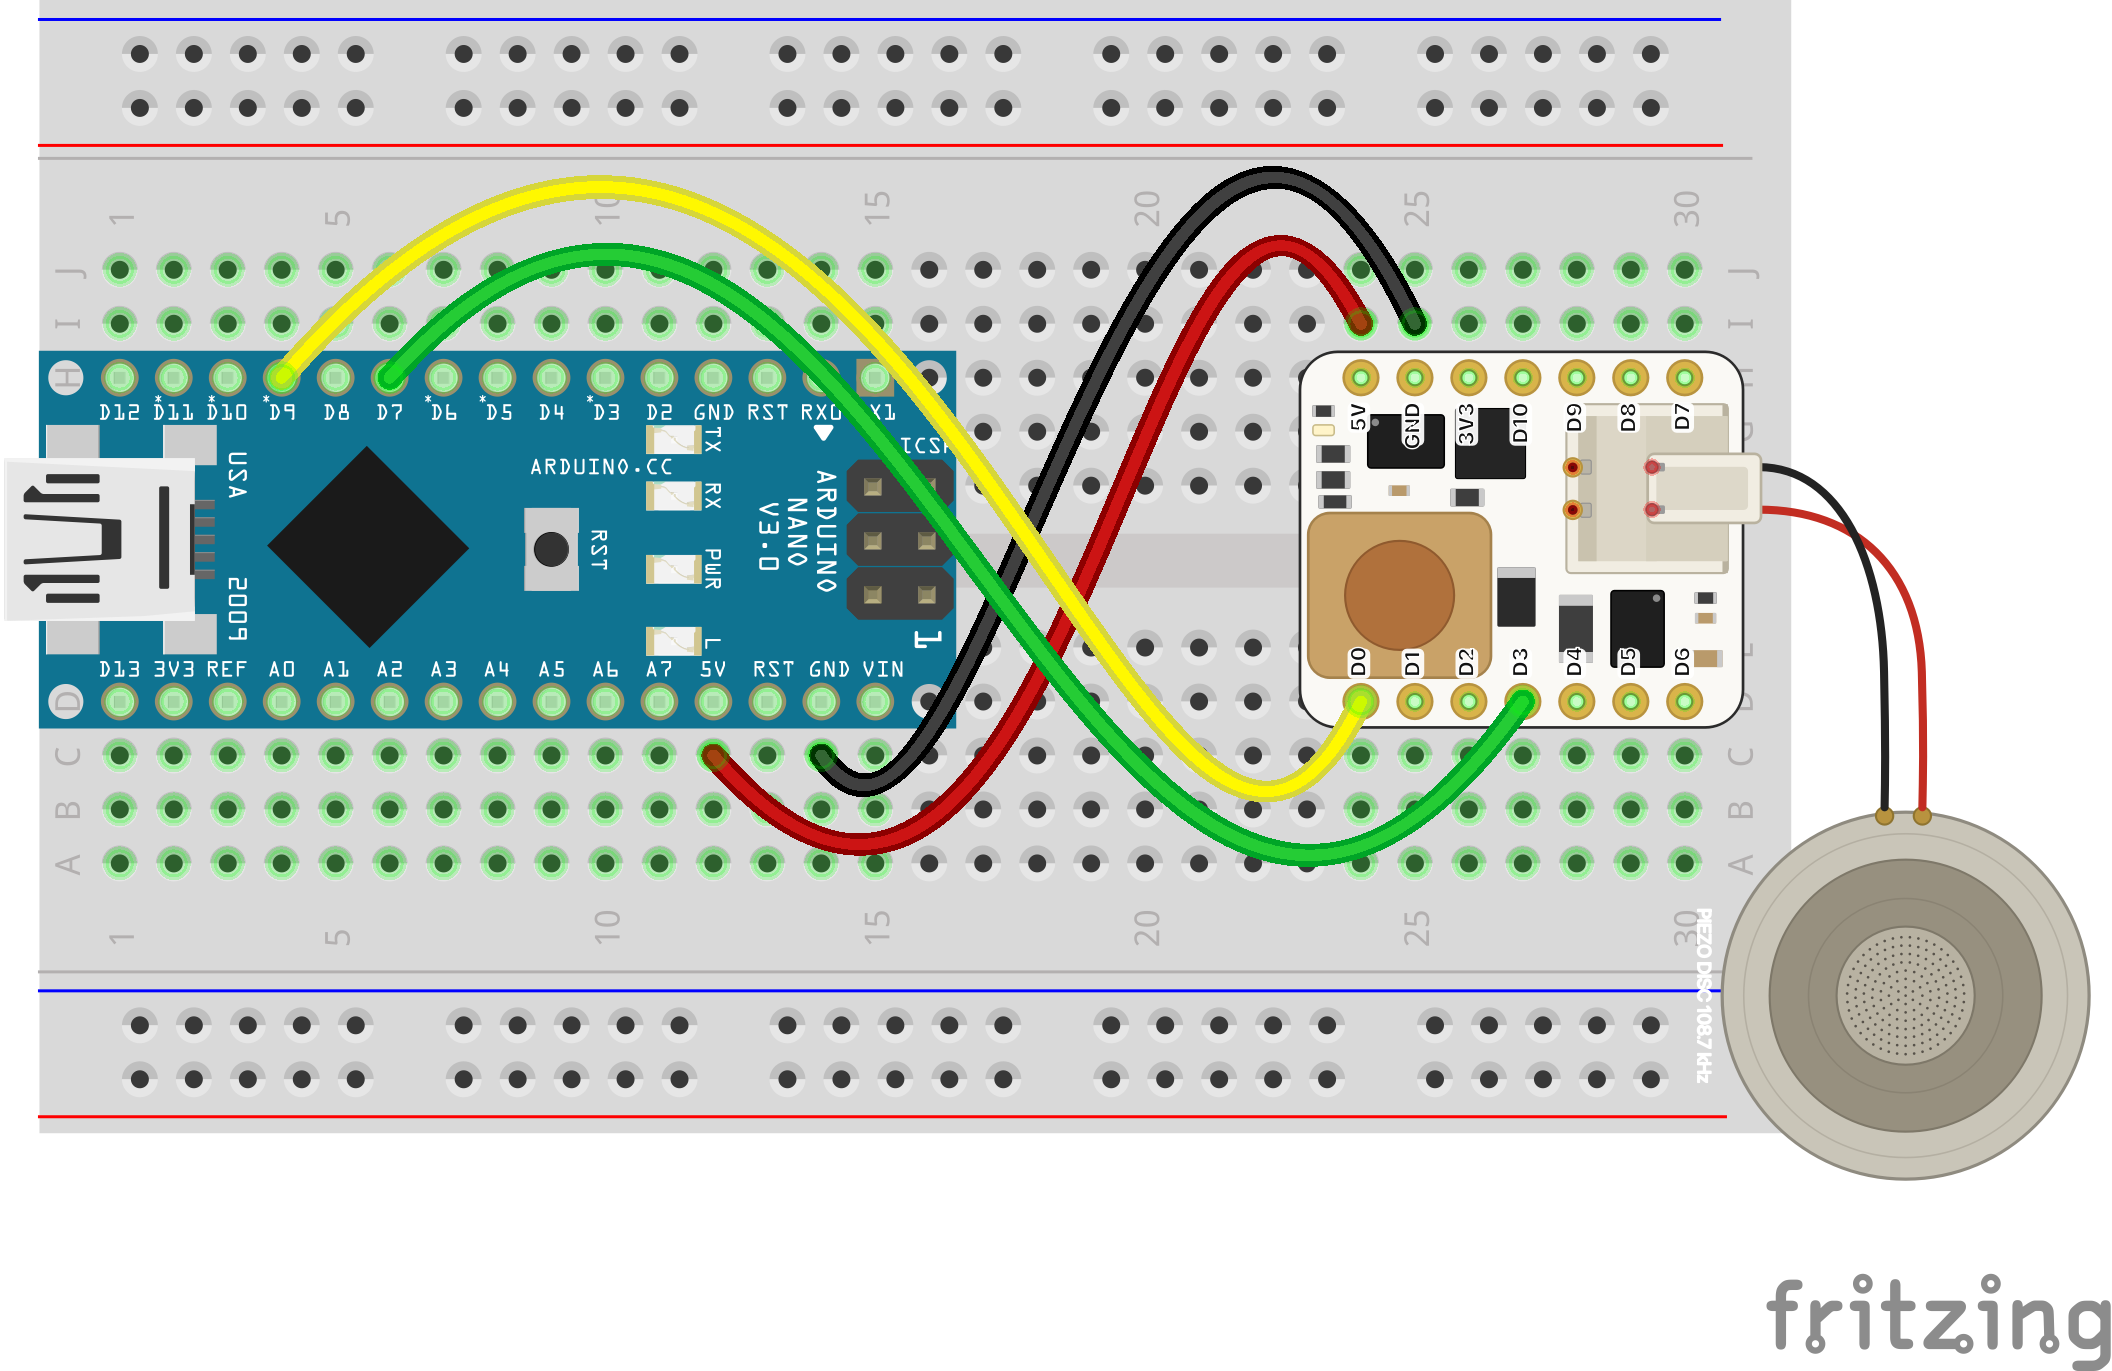
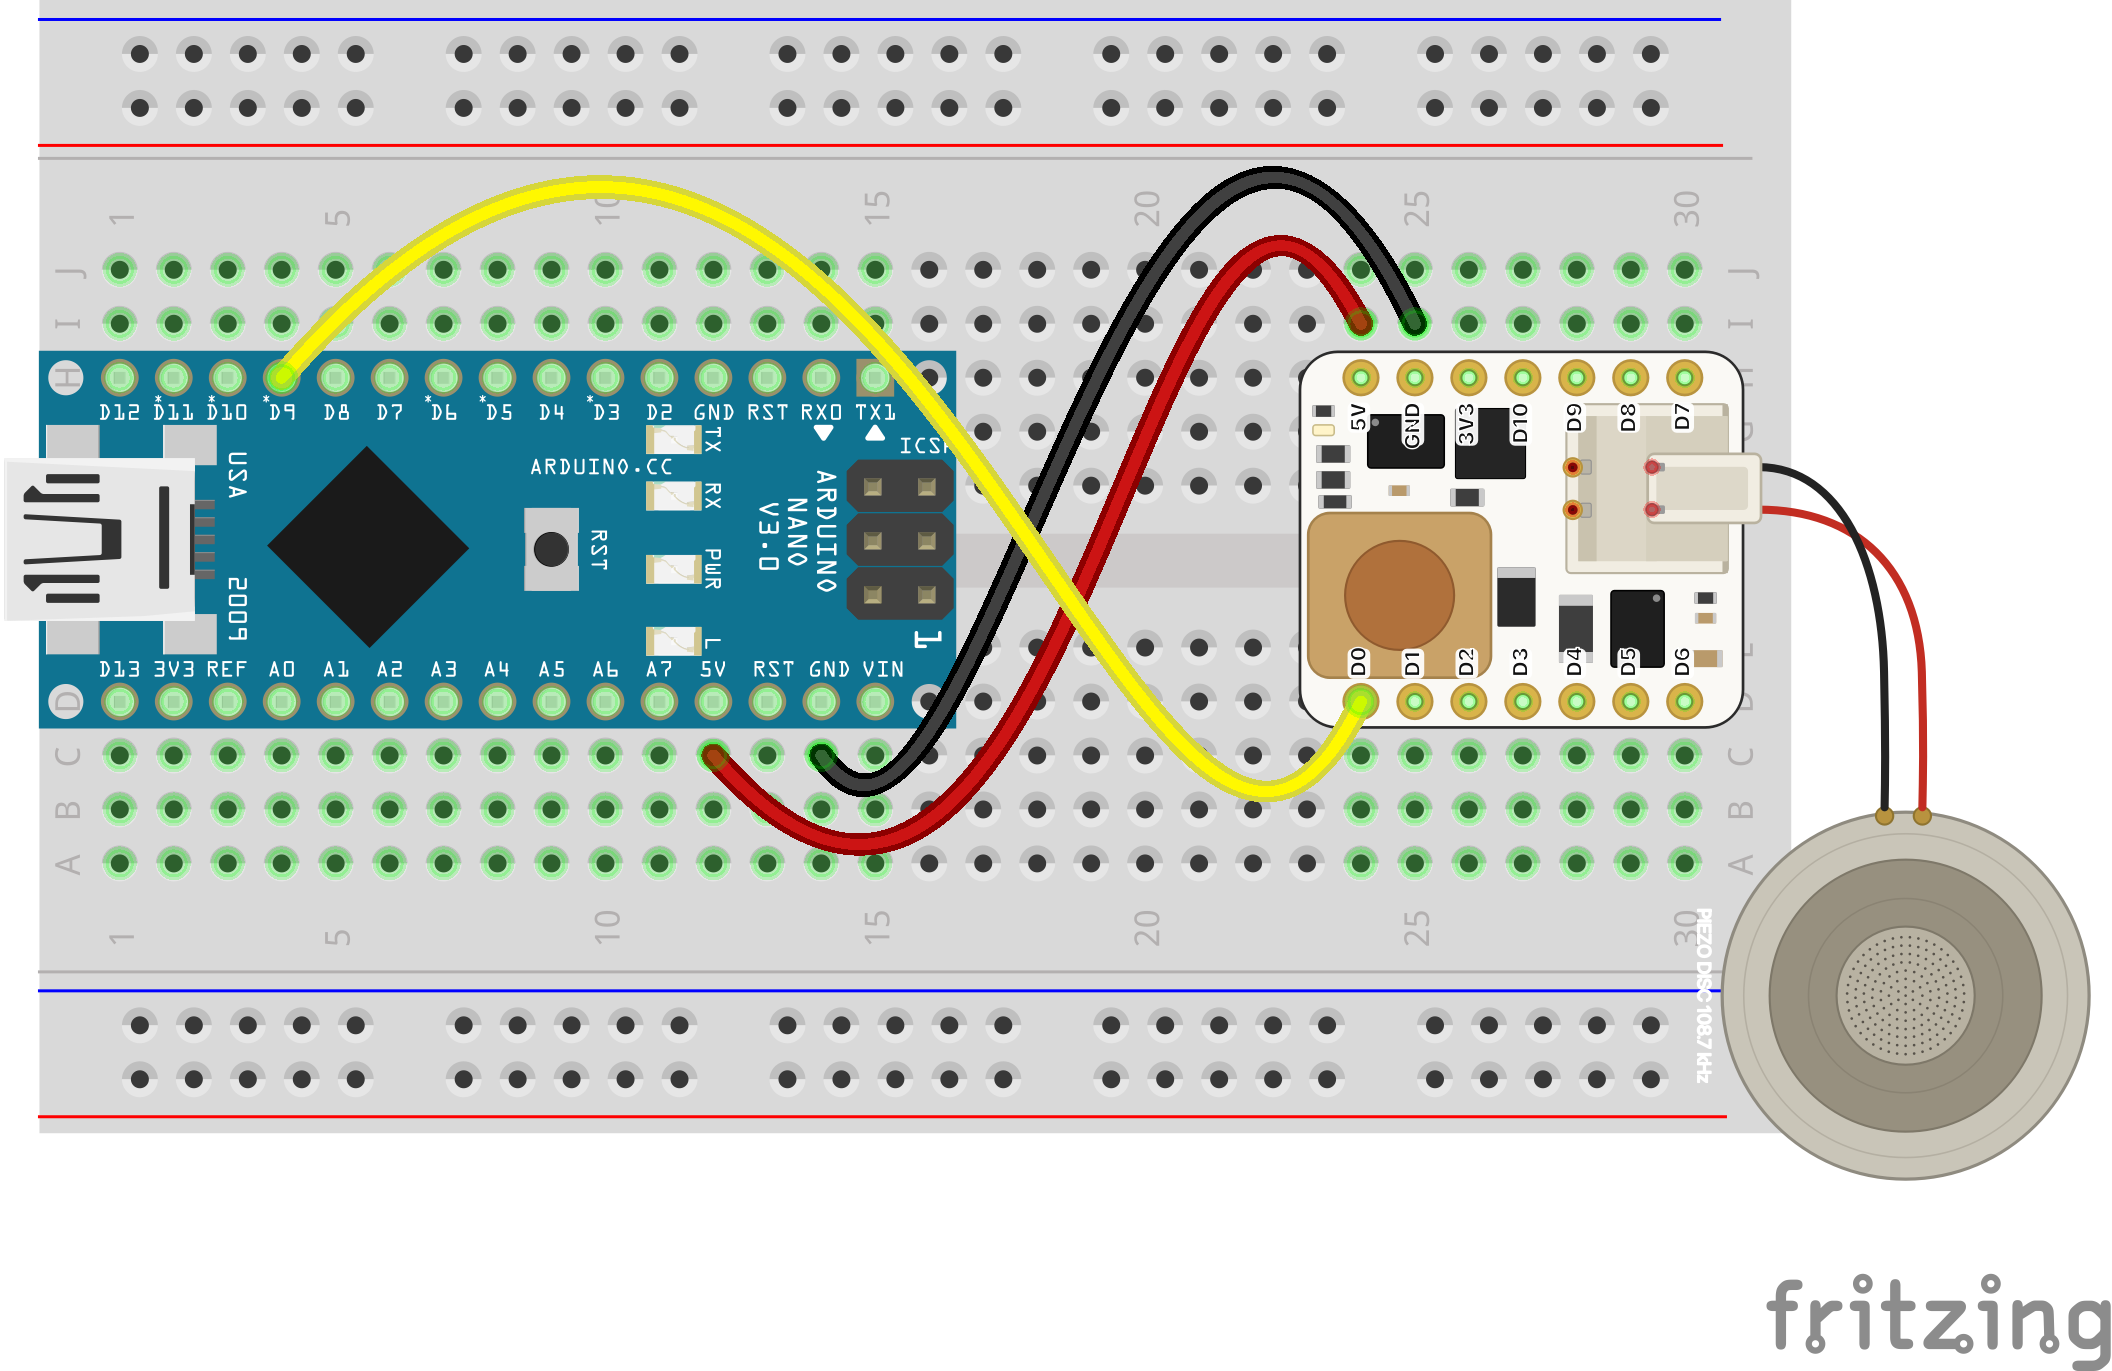
docs(lab): updated Nano-to-Extension figure (three wires)
David re-exported the figure without the leftover D7->D3 enable wire, which
the Extension Kit has no use for. Caption simplified to match.

diff --git a/docs/labs/making-mist-with-an-arduino.md b/docs/labs/making-mist-with-an-arduino.md
@@ -268,10 +268,10 @@ The disc plugs into the kit's piezo connector on the right._
 
 _Figure 4. Nano wired to the Extension Kit — both boards share one
 breadboard, each straddling the center divide. Yellow runs from the row
-beside the Nano's D9 to the row beside the kit's D0, red from 5V to 5V, and
-black from GND to GND. (A green wire from D7 to the kit's D3 is also
-pictured; the Extension Kit has no boost to enable, so it does nothing here —
-three wires are all this kit needs.)_
+beside the Nano's D9 to the row beside the kit's D0, red from the Nano's 5V
+to the kit's 5V, and black from GND to GND. Three wires, no enable — the
+drive rail is live whenever power arrives. The disc plugs into the kit's
+piezo connector on the right._
 
 In code, use the Extension preset (or pass `-1` for the enable pin):
 
